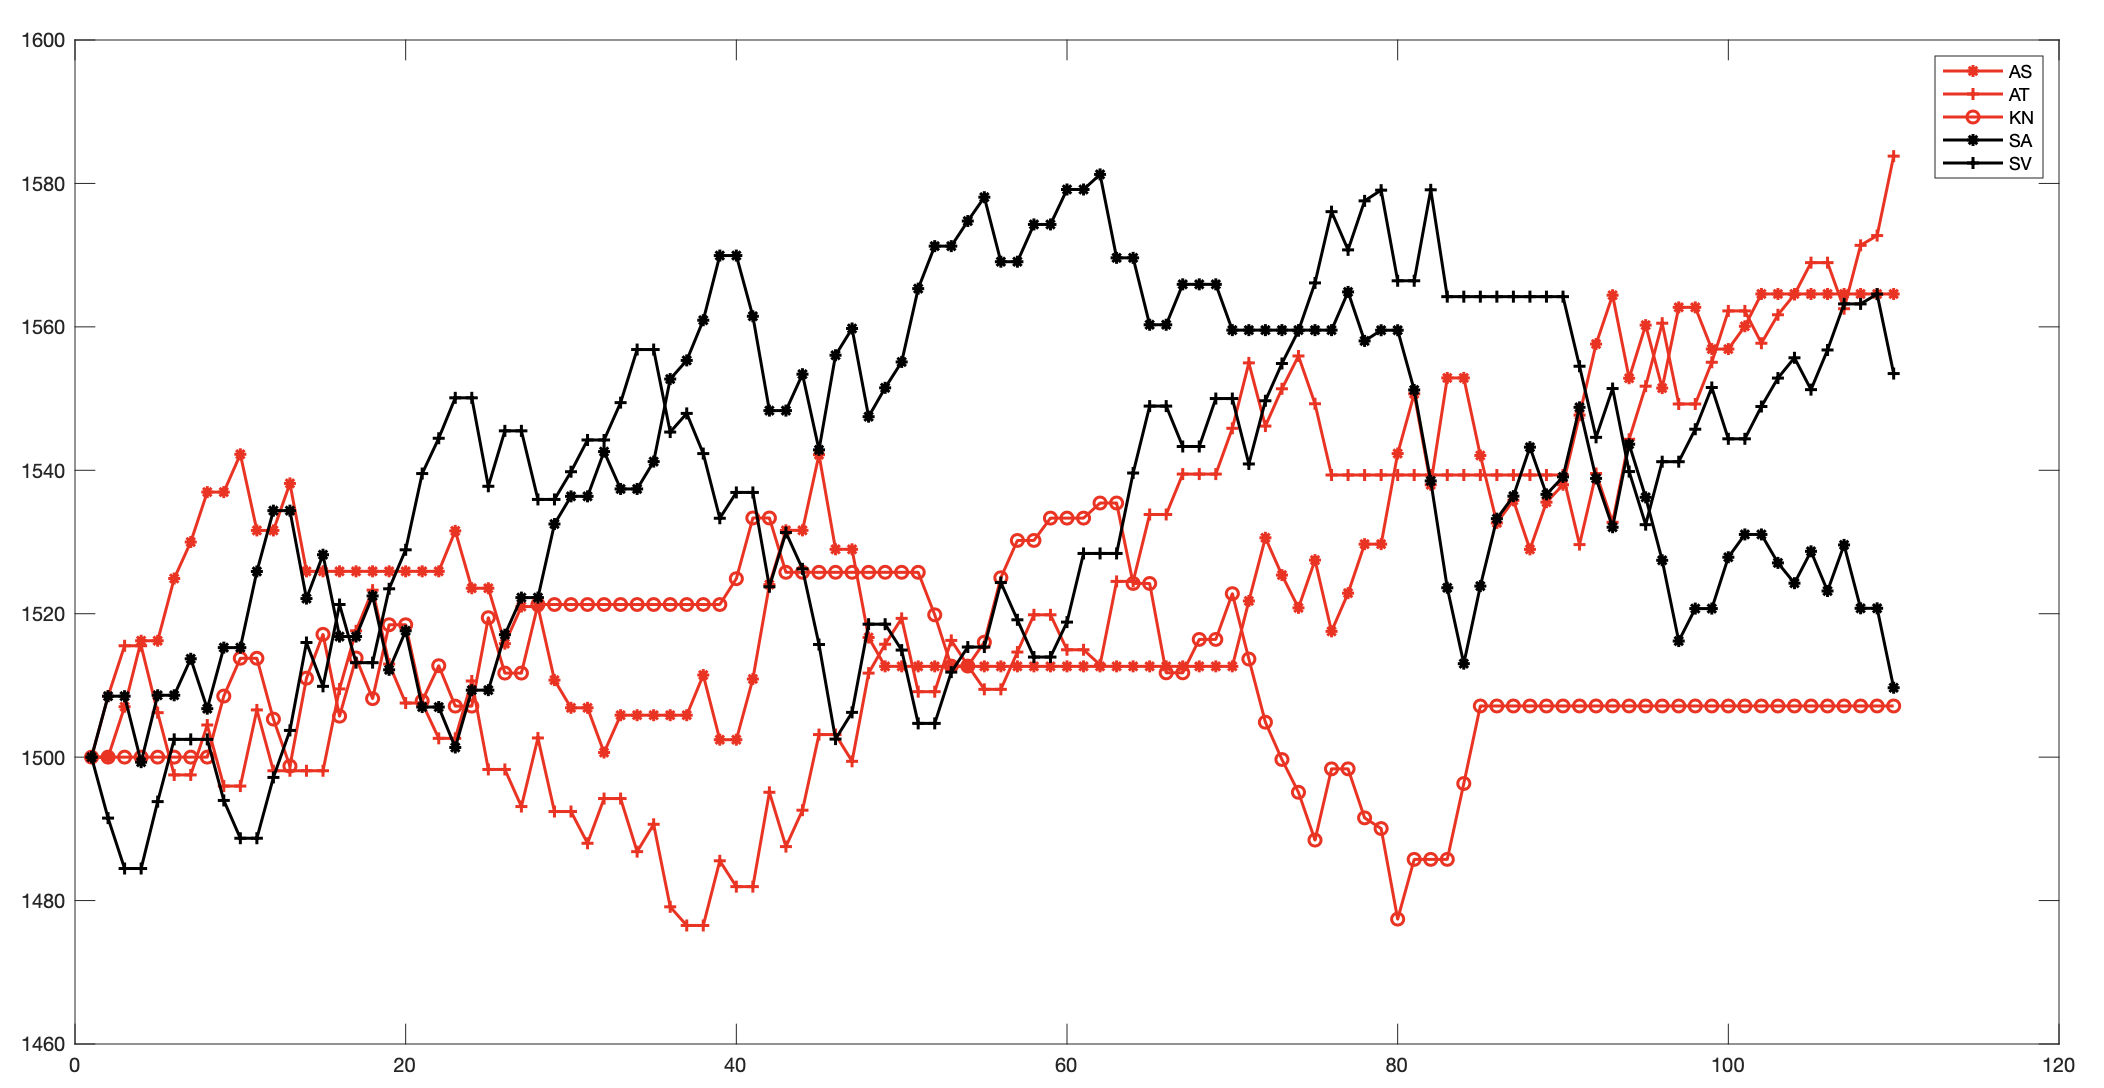
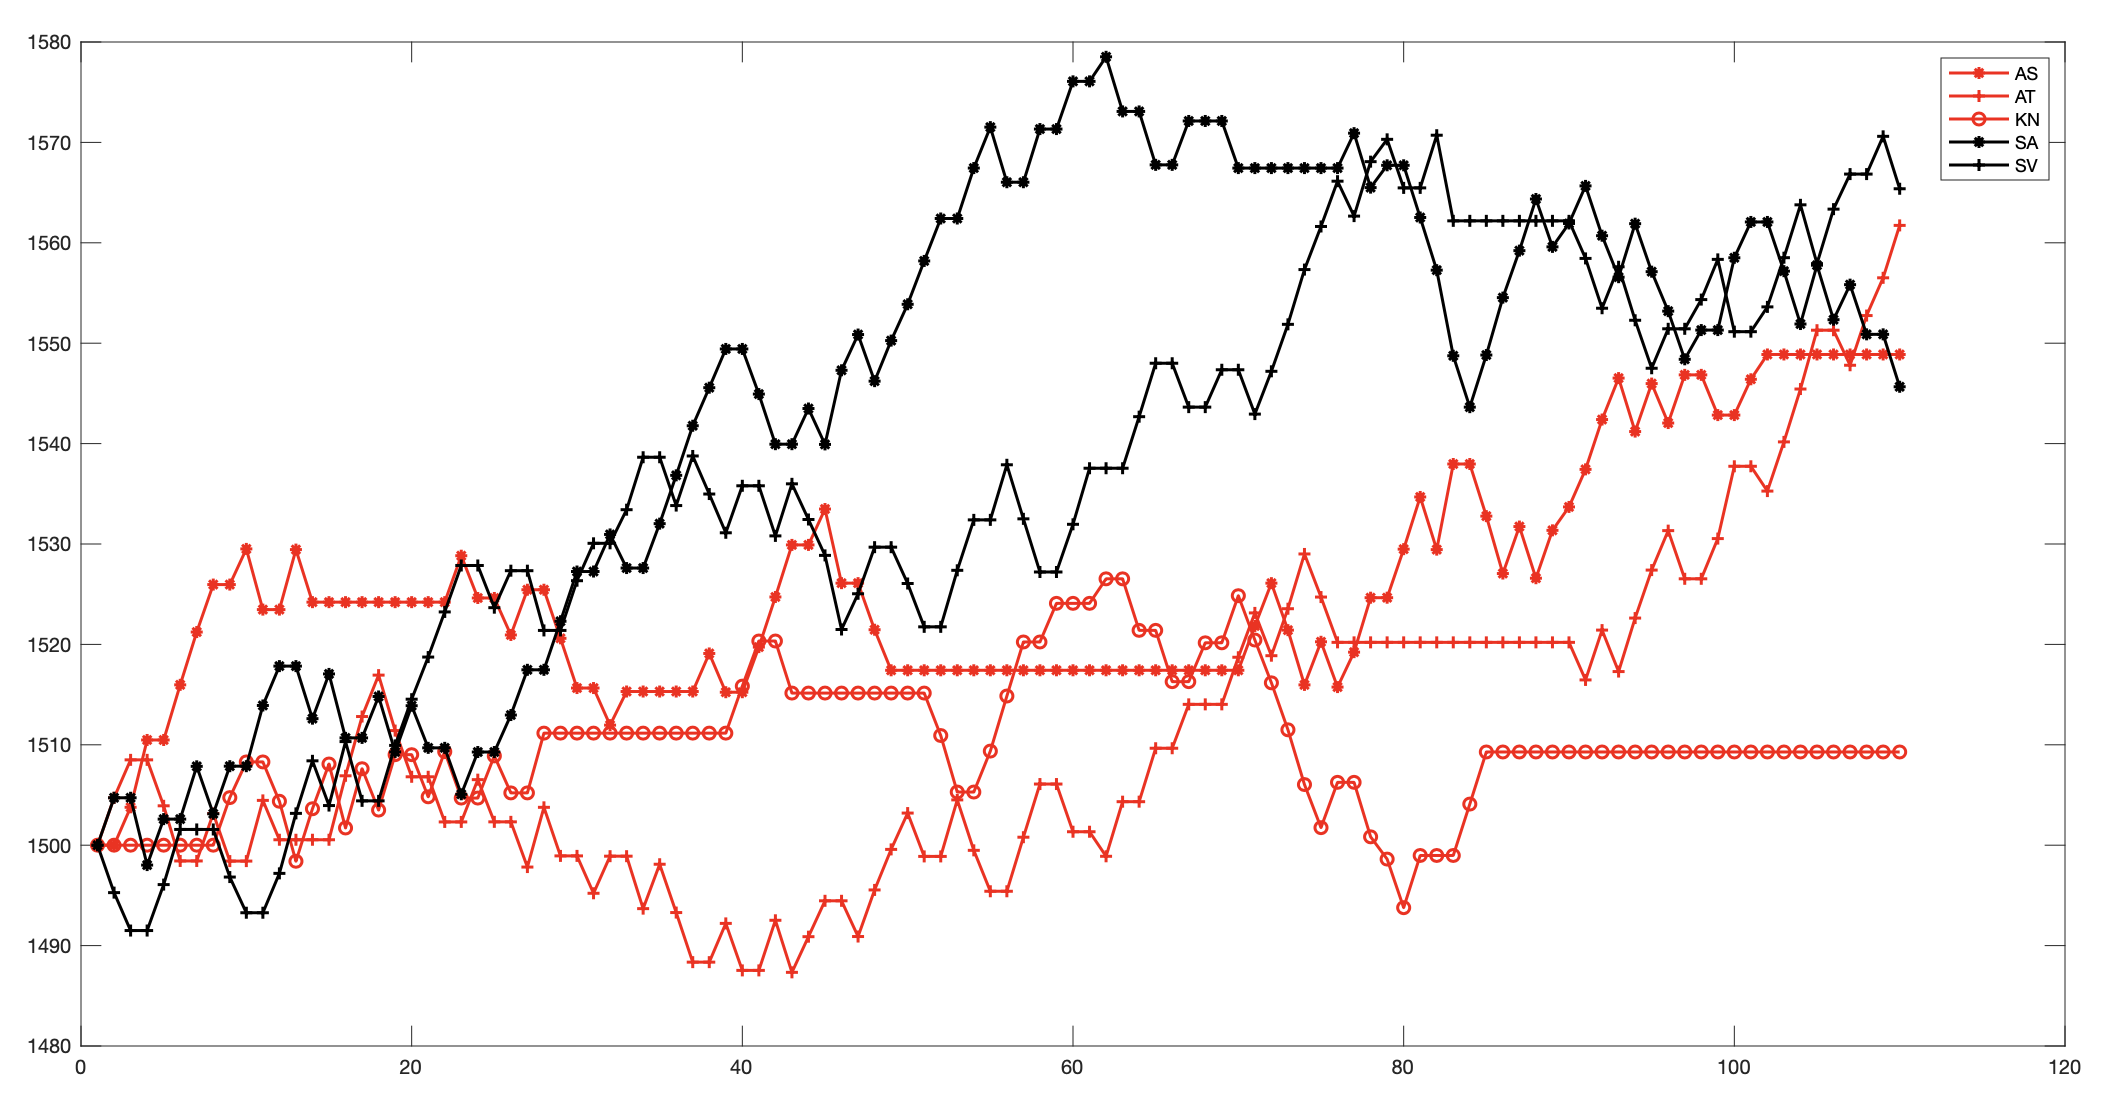
update

diff --git a/index.html b/index.html
@@ -62,19 +62,19 @@ A quick jot down of stuff. Just getting started. Need to fix some parts of the c
     </tr>
     <tr>
 		<th>SA</th>
-		<th>41</th>
+		<th>55</th>
     </tr>
     <tr>
 		<th>SV</th>
-		<th>33</th>
+		<th>30</th>
     </tr>
     <tr>
 		<th>AS</th>
-		<th>25</th>
+		<th>22</th>
     </tr>
     <tr>
 		<th>AT</th>
-		<th>10</th>
+		<th>2</th>
     </tr>
     <tr>
 		<th>SV</th>
@@ -119,11 +119,11 @@ A quick jot down of stuff. Just getting started. Need to fix some parts of the c
 	<li>Assume the score of the losing team is 'D' points.</li>
 	<li>The elochange is calculated as follows:</li>
 
-	\[EL = \frac{K}2 \exp\left(-\frac{\lvert elo(T1)-elo(T2) \rvert}{\alpha K} \right)\left(1-D/100\right)\]
+	\[EL = \frac{K}2 \exp\left(-\frac{\lvert elo(T1)-elo(T2) \rvert}{\alpha K} \right)\exp\left(-D/20\right)\]
 
 	<li>If T1 wins, then each member of T1 gets the above points added to their score and each member of T2 have the above points subtracted from their score.</li>
 
-	<li>If T2 wins, then each member of T2 gets \(\left(K\left(1-D/100\right)-EL\right)\) points added to their score and each member of T1 have the \(\left(K \left(1-D/100\right)-EL\right)\) points subtracted from their score.</li>
+	<li>If T2 wins, then each member of T2 gets \(\left(K\exp\left(-D/20\right)-EL\right)\) points added to their score and each member of T1 have the \(\left(K \exp\left(-D/20\right)-EL\right)\) points subtracted from their score.</li>
 
 	<li>Another feature of the above specific elo rating is that it also gives importance to the margin of victory via the factor \((1-D/100)\). If the losing team scores 0 points, then the swing factor (elochange) is higher. If the losing team scores \(20\) points, then the swing factor (elochange) is lower.</li>
 	
